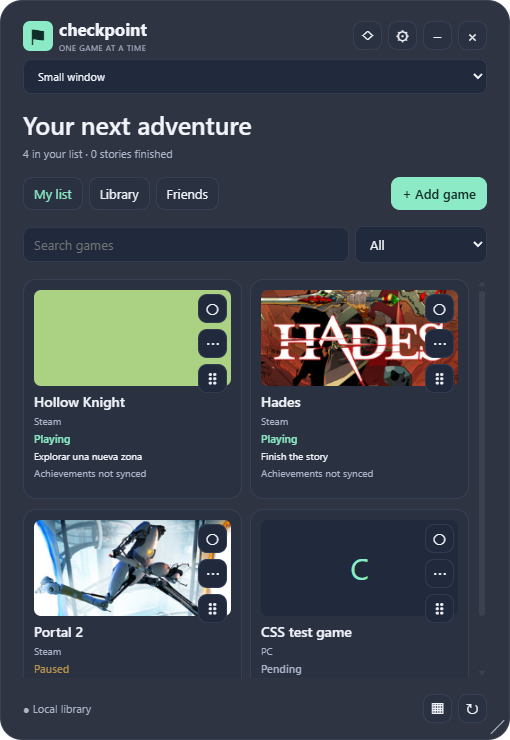
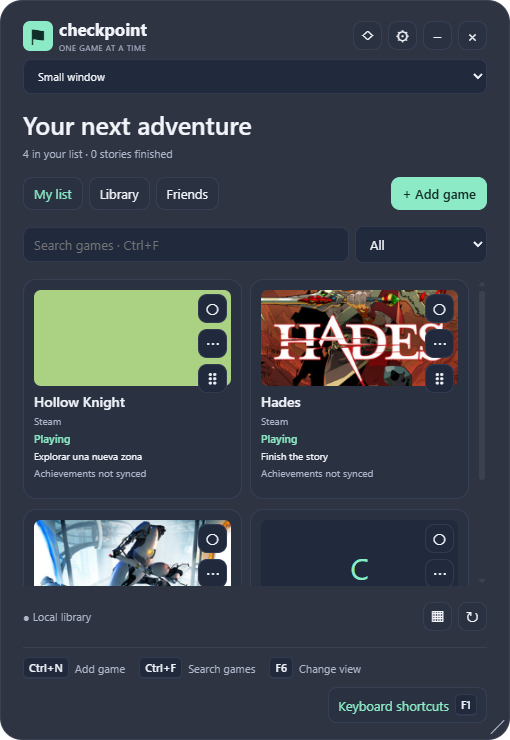
Make keyboard shortcuts visible and add localized F1 help

diff --git a/src/Checkpoint.App/Web/app.js b/src/Checkpoint.App/Web/app.js
@@ -1,7 +1,7 @@
 import { visibleRange, nextIndex } from './ui-model.mjs';
 
 const root = document.querySelector('#app');
-let state, selected, menu, dragId, layout, dialogMode;
+let state, selected, menu, dragId, layout, dialogMode, help, helpFocus, helpLanguage;
 let requestId = 0;
 const pending = new Map();
 const send = value => { const id=++requestId; window.chrome?.webview?.postMessage({...value,requestId:id}); return id; };
@@ -12,13 +12,34 @@ function button(text, name, title, values = {}, className = '') {
   node.setAttribute('aria-label', title || text); node.addEventListener('click', () => action(name, values)); return node;
 }
 function dismissMenu() { const hadMenu=!!menu; menu?.remove(); menu=undefined; if (hadMenu && state?.mini && selected) root.querySelector(`[data-game="${selected}"]`)?.focus({preventScroll:true}); }
+const gestures = {add:'Ctrl+N', search:'Ctrl+F', undo:'Ctrl+Z', view:'F6', hide:'Esc', shortcuts:'F1'};
+function showHelp(event) {
+  if (!state || state.kind !== 'main') return;
+  const invoker=event?.currentTarget; dismissMenu(); helpFocus = invoker?.isConnected ? invoker : document.activeElement;
+  help = el('dialog', 'shortcut-help'); help.setAttribute('aria-labelledby','shortcut-title');
+  help.addEventListener('close', () => {help?.remove(); help=undefined; helpLanguage=undefined; if(helpFocus?.isConnected)helpFocus.focus({preventScroll:true}); else if(state?.mini && selected)root.querySelector(`[data-game="${selected}"]`)?.focus({preventScroll:true});});
+  help.addEventListener('click',e=>{if(e.target===help){const r=help.getBoundingClientRect();if(e.clientX<r.left||e.clientX>r.right||e.clientY<r.top||e.clientY>r.bottom)help.close();}});
+  document.body.append(help); renderHelp(); help.showModal(); help.querySelector('button').focus();
+}
+function renderHelp() {
+  if (!help || helpLanguage === state.language) return;
+  helpLanguage=state.language; const l=state.labels; help.replaceChildren();
+  const header=el('div','shortcut-header'), title=el('h2','',l.shortcuts);title.id='shortcut-title';
+  const close=el('button','',l.closeHelp);close.type='button';close.addEventListener('click',()=>help.close()); header.append(title,close);help.append(header);
+  const content=el('div','shortcut-content');
+  function section(title,rows) {const group=el('section');group.append(el('h3','',title));const list=el('dl');for(const [keys,label,note] of rows){const row=el('div','shortcut-row'),term=el('dt'),description=el('dd','',label);term.append(el('kbd','',keys));if(note)description.append(el('small','',note));row.append(term,description);list.append(row);}group.append(list);content.append(group);}
+  const general=[['F1',l.shortcuts],['Ctrl+N',l.add],['Ctrl+F',l.search],['Ctrl+Z',l.undo,l.undoContext],['F6',l.view],['Esc',l.hide,l.hideContext]];
+  general.push(['Ctrl+Alt+C',l.globalKeys,state.globalHotkey?null:l.globalUnavailable]);
+  section(l.generalKeys,general);section(l.miniKeys,[['↑ / ↓',l.selectGame],[l.homeEnd,l.firstLast],[l.pageKeys,l.pageGame],[l.enterSpace,l.gameMenu],['F2',l.edit]]);section(l.orderKeys,[['Alt+↑ / Alt+↓',l.reorder]]);help.append(content);
+}
+
 function showMenu(game, x, y) {
   dismissMenu(); if (!state || state.kind !== 'main') return;
   menu = el('div', 'menu'); menu.setAttribute('role', 'menu');
   function entry(text, command, values = {}, checked) {
     const item = button((checked == null ? '' : checked ? '✓  ' : '    ') + text, command, text, values);
     item.setAttribute('role', checked == null ? 'menuitem' : 'menuitemradio'); if (checked != null) item.setAttribute('aria-checked', String(checked));
-    item.addEventListener('click', dismissMenu); menu.append(item);
+    const key=gestures[command];if(key){item.append(el('kbd','',key));item.setAttribute('aria-keyshortcuts',key==='Esc'?'Escape':key.replace('Ctrl+','Control+'));} item.addEventListener('click', dismissMenu); menu.append(item);
   }
   if (game) {
     state.labels.statuses.forEach((label, value) => entry(label, 'state', { id: game.id, value }, game.state === value));
@@ -27,6 +48,7 @@ function showMenu(game, x, y) {
   if (state.mini) entry(state.labels.exitMini, 'exit-mini');
   [state.labels.fullWindow,state.labels.smallWindow,state.labels.miniature].forEach((label,value)=>entry(label,'window-mode',{value},value===(state.mini?2:state.full?0:1)));
   entry(state.labels.settings, 'settings'); entry(state.labels.search, 'search'); entry(state.labels.add, 'add');
+  const helpItem=el('button','',state.labels.shortcuts);helpItem.setAttribute('role','menuitem');helpItem.setAttribute('aria-keyshortcuts','F1');helpItem.append(el('kbd','','F1'));helpItem.addEventListener('click',showHelp);menu.append(helpItem);
   menu.append(el('hr')); entry(state.labels.pin, 'pin', {}, state.pinned); entry(state.labels.locked, 'lock', {}, state.locked);
   document.body.append(menu);
   menu.style.left = `${Math.max(4, Math.min(x, innerWidth - menu.offsetWidth - 4))}px`;
@@ -97,11 +119,12 @@ function frame() {
   const viewport = el('section', 'viewport'); viewport.setAttribute('aria-label', 'Checkpoint'); viewport.tabIndex = -1; viewport.addEventListener('scroll', renderGames);
   const footer = el('footer', 'footer'), messages = el('div'); messages.append(el('div', 'connection'), el('div', 'notice')); footer.append(messages);
   const tools = el('div', 'tools'); for (const [icon,name] of [['↶','undo'], ['▤','cycle'], ['↻','sync']]) { const node = button(icon, name, icon, {}, 'icon'); node.dataset.label = name === 'cycle' ? 'view' : name; tools.append(node); } footer.append(tools);
+  const shortcutbar=el('div','shortcutbar'), hints=el('div','shortcut-hints');shortcutbar.append(hints);const helpButton=el('button','shortcut-button');helpButton.type='button';helpButton.setAttribute('aria-keyshortcuts','F1');helpButton.addEventListener('click',showHelp);shortcutbar.append(helpButton);
   const strip = el('div', 'dragstrip'); strip.hidden = true; strip.addEventListener('pointerdown', e => { if (e.button === 0 && !state.locked) action('drag'); });
   const resize = el('div', 'resize'); resize.setAttribute('aria-hidden', 'true'); let point;
   resize.addEventListener('pointerdown', e => { if (state.locked) return; point = [e.screenX,e.screenY]; resize.setPointerCapture(e.pointerId); e.preventDefault(); });
   resize.addEventListener('pointermove', e => { if (!point) return; const x=e.screenX-point[0], y=e.screenY-point[1]; point=[e.screenX,e.screenY]; if (x || y) action('resize',{x,y}); }); resize.addEventListener('pointerup', () => point = undefined); resize.addEventListener('lostpointercapture', () => point = undefined);
-  windowNode.append(header,intro,navigation,searchbar,viewport,footer,strip,resize); root.append(windowNode);
+  windowNode.append(header,intro,navigation,searchbar,viewport,footer,shortcutbar,strip,resize); root.append(windowNode);
   windowNode.addEventListener('contextmenu', e => { if (state.mini && !e.target.closest('[data-game]')) { e.preventDefault(); showMenu(null,e.clientX,e.clientY); } });
 }
 function renderMain() {
@@ -112,10 +135,11 @@ function renderMain() {
   host.querySelector('.tagline').textContent = state.labels.tagline;
   host.querySelector('h1').textContent = state.tab === 'friends' ? state.labels.friendsTitle : state.labels.title;
   host.querySelector('.summary').textContent = state.summary;
-  host.querySelectorAll('[data-label]').forEach(node => { const label = state.labels[node.dataset.label]; node.title = label; node.setAttribute('aria-label', label); if (node.classList.contains('add')) node.textContent = '+ '+label; });
+  host.querySelectorAll('[data-label]').forEach(node => { const label = state.labels[node.dataset.label]; const key=gestures[node.dataset.label]; node.title = label+(key?' · '+key:''); node.setAttribute('aria-label', label);if(key)node.setAttribute('aria-keyshortcuts',key==='Esc'?'Escape':key.replace('Ctrl+','Control+')); if (node.classList.contains('add')) node.textContent = '+ '+label; });
   host.querySelectorAll('[data-tab]').forEach(node => { node.textContent = state.labels[node.dataset.tab]; node.classList.toggle('active', state.tab === node.dataset.tab); });
-  const search = host.querySelector('#search'); if ((pending.get('search')||0) <= (state.ack||0) && search.value !== state.search) search.value = state.search; search.placeholder = state.labels.search; search.setAttribute('aria-label',state.labels.search);
+  const search = host.querySelector('#search'); if ((pending.get('search')||0) <= (state.ack||0) && search.value !== state.search) search.value = state.search; search.placeholder = state.labels.search+' · Ctrl+F'; search.setAttribute('aria-keyshortcuts','Control+F'); search.setAttribute('aria-label',state.labels.search);
   const filter = host.querySelector('.searchbar select'); filter.replaceChildren(); [state.labels.all,...state.labels.statuses].forEach((text,index) => { const option=el('option','',text); option.value=index; filter.append(option); }); filter.value = state.filter;
+  const hints=host.querySelector('.shortcut-hints');hints.replaceChildren();for(const [keys,label] of [['Ctrl+N',state.labels.add],['Ctrl+F',state.labels.search],['F6',state.labels.view]]){const hint=el('span');hint.append(el('kbd','',keys),el('span','',label));hints.append(hint);}const helpButton=host.querySelector('.shortcut-button');helpButton.replaceChildren(el('span','',state.labels.shortcuts),el('kbd','','F1'));helpButton.title=state.labels.helpHint;renderHelp();
   host.querySelector('.connection').textContent = state.connection; host.querySelector('.notice').textContent = state.notice;
   host.querySelector('[data-label="undo"]').hidden = !state.undo; host.querySelector('[data-label="sync"]').disabled = state.busy;
   host.querySelector('.resize').hidden = state.locked || state.full; host.querySelector('.dragstrip').hidden = !state.mini; host.querySelector('[data-label="pin"]').textContent = state.pinned ? '◆' : '◇';
@@ -136,7 +160,7 @@ function renderGames() {
   const range=visibleRange(state.games.length,viewport.scrollTop,viewport.clientHeight,rowHeight,columns), rows=el('div','rows'); rows.style.height=`${range.height}px`;
   for (let index=range.start; index<Math.min(range.end,state.games.length); index++) {
     const game=state.games[index], row=el('article',state.mini ? 'minirow' : `game${state.grid ? ' grid' : state.compact ? ' compact' : ''}`);
-    row.dataset.game=game.id; row.tabIndex=selected===game.id ? 0 : -1; row.classList.toggle('selected',selected===game.id); row.style.top=`${Math.floor(index/columns)*rowHeight}px`;
+    row.dataset.game=game.id;if(state.mini){row.title=state.labels.edit+' · F2';row.setAttribute('aria-keyshortcuts','F2 Enter Space ArrowUp ArrowDown Home End PageUp PageDown');} row.tabIndex=selected===game.id ? 0 : -1; row.classList.toggle('selected',selected===game.id); row.style.top=`${Math.floor(index/columns)*rowHeight}px`;
     if (!state.mini) { row.style.left=`${(index%columns)*100/columns}%`; row.style.width=`calc(${100/columns}% - ${columns>1 ? 8 : 0}px)`; row.style.height=`${rowHeight-10}px`; }
     else row.style.height=`${rowHeight-3}px`;
     row.addEventListener('focus',()=>selected=game.id); row.addEventListener('contextmenu',e=>{ e.preventDefault(); selected=game.id; showMenu(game,e.clientX,e.clientY); });
@@ -146,7 +170,7 @@ function renderGames() {
       const details=el('div','details'); details.append(el('div','game-title ellipsis',game.title),el('div','platform ellipsis',game.platform),el('div',`status state-${game.state}`,game.status),el('div','next ellipsis',game.next),el('div','progress ellipsis',game.progress+(game.percent==null?'':` · ${game.percent}%`)));
       if (game.percent != null) { const progress=el('progress'); progress.max=100; progress.value=game.percent; progress.setAttribute('aria-label',game.progress); details.append(progress); } row.append(details);
       const tools=el('div','game-tools'); tools.append(button(game.state===3?'✓':'○','finish',state.labels.finish,{id:game.id},'icon'),button('⋯','edit',state.labels.edit,{id:game.id},'icon'));
-      const reorder=el('button','icon','⠿'); reorder.title=game.title; reorder.setAttribute('aria-label',game.title); reorder.draggable=true; reorder.addEventListener('keydown',e=>{if(e.altKey && ['ArrowUp','ArrowDown'].includes(e.key)){e.preventDefault();const index=state.games.findIndex(item=>item.id===game.id),target=state.games[index+(e.key==='ArrowUp'?-1:1)];if(target)action('move',{id:game.id,target:target.id,after:e.key==='ArrowDown'});}}); reorder.addEventListener('dragstart',e=>{dragId=game.id;e.dataTransfer.setData('text/plain',game.id);}); tools.append(reorder); row.append(tools);
+      const reorder=el('button','icon','⠿'); reorder.title=state.labels.reorder+' · Alt+↑ / Alt+↓';reorder.setAttribute('aria-keyshortcuts','Alt+ArrowUp Alt+ArrowDown'); reorder.setAttribute('aria-label',game.title); reorder.draggable=true; reorder.addEventListener('keydown',e=>{if(e.altKey && ['ArrowUp','ArrowDown'].includes(e.key)){e.preventDefault();const index=state.games.findIndex(item=>item.id===game.id),target=state.games[index+(e.key==='ArrowUp'?-1:1)];if(target)action('move',{id:game.id,target:target.id,after:e.key==='ArrowDown'});}}); reorder.addEventListener('dragstart',e=>{dragId=game.id;e.dataTransfer.setData('text/plain',game.id);}); tools.append(reorder); row.append(tools);
       row.addEventListener('dragover',e=>e.preventDefault()); row.addEventListener('drop',e=>{e.preventDefault();if(dragId)action('move',{id:dragId,target:game.id,after:e.clientY>row.getBoundingClientRect().top+row.clientHeight/2});dragId=undefined;});
     }
     rows.append(row);
@@ -155,6 +179,9 @@ function renderGames() {
   if (focusWasRow && selected) rows.querySelector(`[data-game="${selected}"]`)?.focus({preventScroll:true});
 }
 document.addEventListener('keydown',e=>{
+  if(e.key==='F1' && e.repeat){e.preventDefault();return;}
+  if(help?.open){if(e.key==='Escape'||e.key==='F1'){e.preventDefault();help.close();}return;}
+  if(e.key==='F1' && state?.kind==='main' && !dialogMode){e.preventDefault();showHelp();return;}
   if (dialogMode) { if (e.key==='Escape') { e.preventDefault(); send({action:'cancel-dialog'}); } return; }
   if (!state) return;
   const input=e.target.closest?.('input,textarea,select');

diff --git a/src/Checkpoint.App/Web/app.css b/src/Checkpoint.App/Web/app.css
@@ -26,3 +26,17 @@ input[type="checkbox"] { accent-color:var(--accent); width:16px; min-height:16px
 @media (max-width:400px) { .window:not(.mini) { padding:17px 18px 16px; } .navigation { gap:4px; } .navigation button { padding:7px 8px; } .searchbar select { width:115px; } }
 
 .window-mode { width:135px; min-width:0; font-size:11px; } .window.full { border-radius:0; padding:24px 32px; } .window.full .brand { cursor:default; } @media(max-width:540px) { .header { flex-wrap:wrap; } .window-mode { width:100%; order:2; } }
+
+kbd { font-family:inherit; font-size:11px; font-weight:600; white-space:nowrap; border:1px solid var(--line); border-bottom-width:2px; border-radius:5px; padding:2px 5px; background:var(--input); color:var(--text); }
+.shortcutbar { display:flex; align-items:center; justify-content:space-between; gap:8px; flex-wrap:wrap; border-top:1px solid var(--line); padding-top:9px; flex:none; }
+.shortcut-hints { display:flex; gap:8px 14px; flex-wrap:wrap; font-size:11px; color:var(--muted); }
+.shortcut-hints>span,.shortcut-button { display:flex; align-items:center; gap:6px; } .shortcut-button { color:var(--accent); padding:6px 9px; margin-left:auto; }
+.mini .shortcutbar { display:none; }
+.shortcut-help { color:var(--text); background:var(--input); border:1px solid var(--line); border-radius:14px; padding:0; width:min(580px,calc(100vw - 16px)); max-height:calc(100vh - 16px); overflow:auto; }
+.shortcut-help::backdrop { background:#0008; }
+.shortcut-header { display:flex; align-items:center; justify-content:space-between; gap:10px; padding:14px; position:sticky; top:0; background:var(--input); border-bottom:1px solid var(--line); }
+.shortcut-header h2 { font-size:18px; margin:0; } .shortcut-header button { flex-shrink:0; }
+.shortcut-content { padding:0 14px 14px; } .shortcut-content h3 { font-size:13px; color:var(--accent); margin:18px 0 8px; } .shortcut-content dl { margin:0; }
+.shortcut-row { display:grid; grid-template-columns:minmax(95px,auto) 1fr; gap:14px; padding:9px 0; border-bottom:1px solid var(--line); align-items:start; }
+.shortcut-row dt { padding-top:2px; } .shortcut-row dd { margin:0; font-size:13px; overflow-wrap:anywhere; } .shortcut-row small { display:block; color:var(--muted); margin-top:4px; font-size:11px; }
+@media(max-width:400px) { .shortcut-hints { gap:6px 10px; } .shortcut-header { flex-wrap:wrap; padding:10px; } .shortcut-row { grid-template-columns:1fr; gap:7px; } }

diff --git a/src/Checkpoint.App/WebSmokeTests.cs b/src/Checkpoint.App/WebSmokeTests.cs
@@ -40,6 +40,15 @@ public partial class MainWindow
             Check(web!.Browser.DefaultBackgroundColor.A == 0 && AllowsTransparency,"composition web control retains transparent window support");
             Check(!web.Browser.CoreWebView2.Settings.AreHostObjectsAllowed && !web.Browser.CoreWebView2.Settings.AreDefaultContextMenusEnabled,"web host disables native object access and browser context menus");
             Check(await Script(web,"document.documentElement.lang === 'es' && document.querySelector('[data-tab=list]').textContent === 'Mi lista'"),"CSS main navigation uses Spanish");
+            Check(await Script(web,"document.querySelector('.shortcutbar').textContent.includes('Ctrl+N') && document.querySelector('.shortcutbar').textContent.includes('F6') && document.querySelector('[data-label=add]').getAttribute('aria-keyshortcuts')==='Control+N'"),"useful shortcuts are visible and controls expose accessible key gestures");
+            await Run("document.querySelector('.shortcut-button').click();");
+            Check(await Script(web,"document.querySelector('.shortcut-help:modal h2').textContent==='Atajos de teclado' && document.querySelector('.shortcut-help').textContent.includes('Intro / Espacio') && document.querySelector('.shortcut-help').textContent.includes('Ctrl+Alt+C')"),"shortcut button opens a localized Spanish guide with global and Miniature keys");
+            var helpGameCount=Games.Count;
+            await Run("document.querySelector('.shortcut-help').dispatchEvent(new KeyboardEvent('keydown',{key:'n',ctrlKey:true,bubbles:true}));");
+            Check(Games.Count==helpGameCount && Application.Current.Windows.Count==1 && await Script(web,"!!document.querySelector('.shortcut-help:modal') && document.querySelector('.shortcut-help').contains(document.activeElement)"),"shortcut guide is modal and prevents underlying game commands");
+            await Capture(web,"css-shortcuts-es.png");
+            await Run("document.dispatchEvent(new KeyboardEvent('keydown',{key:'Escape',bubbles:true}));");
+            Check(IsVisible && await Script(web,"!document.querySelector('.shortcut-help') && document.activeElement.matches('.shortcut-button')"),"Escape closes shortcut help and restores focus without hiding the widget");
             var coverGame=Games.First();
             var fixture=System.Windows.Media.Imaging.BitmapSource.Create(1,1,96,96,System.Windows.Media.PixelFormats.Bgra32,null,new byte[] {130,210,170,255},4);
             coverGame.CustomCover=Covers.SavePrepared(WebSurface.ImageBytes(fixture)); Persist(); Refresh();
@@ -67,6 +76,10 @@ public partial class MainWindow
             await settings.Browser.CoreWebView2.ExecuteScriptAsync("[...document.querySelectorAll('button')].find(b=>b.textContent==='Guardar').click();");
             await Wait(()=>Script(web,"document.documentElement.lang==='en'"));
             Check(Preferences.Language=="en" && Store.LoadSettings().Language=="en" && await Script(web,"document.querySelector('[data-tab=library]').textContent==='Library'"),"CSS settings save language and update the main interface immediately");
+            await Run("document.dispatchEvent(new KeyboardEvent('keydown',{key:'F1',bubbles:true}));");
+            Check(await Script(web,"document.querySelector('.shortcut-help:modal h2').textContent==='Keyboard shortcuts' && document.querySelector('.shortcut-help').textContent.includes('Enter / Space') && !document.querySelector('.shortcut-help').textContent.includes('Atajos')"),"F1 opens shortcut help entirely in the selected English language");
+            await Capture(web,"css-shortcuts-en.png");
+            await Run("document.dispatchEvent(new KeyboardEvent('keydown',{key:'Escape',bubbles:true}));");
             await Capture(web,"css-widget-en.png");
             await Run("document.querySelector('[data-tab=friends]').click();");
             await Wait(()=>Script(web,"!!document.querySelector('input[aria-label=\"Checkpoint username\"]')"));
@@ -145,6 +158,11 @@ public partial class MainWindow
             Check(!IsFullWindow && Math.Abs(Width-smallWidth)<2 && Math.Abs(Height-smallHeight)<2 && await Script(web,"window.checkpointState.opacity===0.61 && document.querySelector('.window-mode').value==='1'"),"small window restores saved dimensions and translucency");
             await Run("const mode=document.querySelector('.window-mode');mode.value=2;mode.dispatchEvent(new Event('change',{bubbles:true}));");
             await Run("document.dispatchEvent(new KeyboardEvent('keydown',{key:'Home',bubbles:true}));document.dispatchEvent(new KeyboardEvent('keydown',{key:'Enter',bubbles:true}));");
+            await Run("[...document.querySelectorAll('.menu button')].find(button=>button.getAttribute('aria-keyshortcuts')==='F1').click();");
+            Check(await Script(web,"!!document.querySelector('.shortcut-help:modal') && !document.querySelector('.menu') && getComputedStyle(document.querySelector('.shortcutbar')).display==='none'"),"Miniature context menu opens the guide without adding controls to its list");
+            await Run("document.dispatchEvent(new KeyboardEvent('keydown',{key:'Escape',bubbles:true}));");
+            Check(Preferences.MiniatureView && await Script(web,"!document.querySelector('.shortcut-help') && document.activeElement.matches('.minirow')"),"closing Miniature help restores the selected row focus");
+            await Run("document.dispatchEvent(new KeyboardEvent('keydown',{key:'Enter',bubbles:true}));");
             Check(Preferences.MiniatureView && await Script(web,"[...document.querySelectorAll('.menu button')].some(button=>button.textContent.includes('Full window')) && window.checkpointState.opacity===0.61"),"Miniature keeps translucency and offers all three window modes");
             await Run("[...document.querySelectorAll('.menu button')].find(button=>button.textContent.includes('Full window')).click();");
             Check(IsFullWindow && !Preferences.MiniatureView && Store.LoadSettings().FullWindow,"Miniature context menu restores the opaque full window");

diff --git a/src/Checkpoint.App/WebInterface.cs b/src/Checkpoint.App/WebInterface.cs
@@ -25,7 +25,7 @@ public partial class MainWindow
         kind="main", language=I18n.Language, light=Preferences.LightTheme,
         opacity=EffectiveOpacity, full=IsFullWindow, mini=Preferences.MiniatureView, compact=Preferences.Compact,
         grid=Preferences.GridView, textSize=Preferences.MiniatureTextSize, locked=Preferences.PositionLocked,
-        pinned=Preferences.AlwaysOnTop, lightweight=Preferences.LightweightMode, busy=syncing,
+        pinned=Preferences.AlwaysOnTop, globalHotkey=hotkeyRegistered, lightweight=Preferences.LightweightMode, busy=syncing,
         tab=friendsVisible ? "friends" : allLibrary ? "library" : "list", search=Search.Text, filter=StatusFilter.SelectedIndex,
         summary=Summary.Text, notice=NoticeText.Text, connection=ConnectionText.Text,
         emptyTitle=EmptyTitle.Text, emptyText=EmptyText.Text, examples=Games.Count == 0, undo=DeletedGames.Count > 0,
@@ -37,6 +37,13 @@ public partial class MainWindow
             locked=I18n.T("Bloquear posición y tamaño"), view=I18n.T("Cambiar vista"), undo=I18n.T("Recuperar último juego eliminado"),
             examples=I18n.T("Añadir ejemplos"), finish=I18n.T("Marcar o desmarcar historia terminada"),
             windowMode=I18n.T("Modo de ventana"), fullWindow=I18n.T("Ventana completa"), smallWindow=I18n.T("Ventana pequeña"), miniature=I18n.T("Miniatura"),
+            shortcuts=I18n.T("Atajos de teclado"), generalKeys=I18n.T("En la ventana principal"), miniKeys=I18n.T("En miniatura"), orderKeys=I18n.T("Al enfocar el botón de reordenar"),
+            helpHint=I18n.T("Pulsa F1 para ver todos los atajos."), closeHelp=I18n.T("Cerrar ayuda"),
+            selectGame=I18n.T("Seleccionar juego"), firstLast=I18n.T("Primer o último juego"), pageGame=I18n.T("Avanzar o retroceder una página"),
+            gameMenu=I18n.T("Abrir menú del juego"), reorder=I18n.T("Reordenar juego"),
+            undoContext=I18n.T("Fuera de los campos de texto"), hideContext=I18n.T("Sin menús ni ayuda abiertos"),
+            globalKeys=I18n.T("Mostrar / ocultar desde cualquier aplicación"), globalUnavailable=I18n.T("No disponible: otra aplicación puede estar usando este atajo."),
+            homeEnd=I18n.T("Inicio / Fin"), pageKeys=I18n.T("RePág / AvPág"), enterSpace=I18n.T("Intro / Espacio"),
             all=I18n.T("Todos"), statuses=Enum.GetValues<GameStatus>().Select(Labels.Status).ToArray() },
         games=(friendsVisible ? Enumerable.Empty<CardView>() : visibleCards).Select(card => new { id=card.Model.Id, title=card.Model.Title, platform=card.Model.Platform,
             state=(int)card.Model.Status, status=card.Model.StatusText, next=card.Model.NextTask,

diff --git a/README.md b/README.md
@@ -18,13 +18,13 @@ Current captures come from the actual local HTML/CSS interface in WebView2, usin
 
 ## Download and run
 
-Current version: **0.7.2**. Build outputs in `dist`:
+Current version: **0.7.3**. Build outputs in `dist`:
 
-- `Checkpoint-0.7.2-win-x64.zip`: portable edition. Extract the ZIP and open `Checkpoint/Checkpoint.exe`. All files stay inside the `Checkpoint` folder.
-- `Checkpoint-0.7.2-win-x64.msi`: per-user installer with Start menu shortcut and Windows uninstall support.
+- `Checkpoint-0.7.3-win-x64.zip`: portable edition. Extract the ZIP and open `Checkpoint/Checkpoint.exe`. All files stay inside the `Checkpoint` folder.
+- `Checkpoint-0.7.3-win-x64.msi`: per-user installer with Start menu shortcut and Windows uninstall support.
 - `.sha256` files: integrity checksums.
 
-Download the portable ZIP or MSI from [GitHub Releases](https://github.com/Nicolasmf05/Checkpoint/releases/tag/v0.7.2), or build from source below. The **Build and verify** GitHub Actions workflow also produces artifacts after a successful run. Packages include the .NET runtime; end users need no development tools. Windows 11 x64 is the target. Windows 10 and ARM64 hardware have not been validated; ARM64 packaging is supported. The MSI and EXE are unsigned; Windows may warn or block them. See [Windows security messages](docs/en/WINDOWS-SECURITY.md). No private certificates are included.
+Download the portable ZIP or MSI from [GitHub Releases](https://github.com/Nicolasmf05/Checkpoint/releases/tag/v0.7.3), or build from source below. The **Build and verify** GitHub Actions workflow also produces artifacts after a successful run. Packages include the .NET runtime; end users need no development tools. Windows 11 x64 is the target. Windows 10 and ARM64 hardware have not been validated; ARM64 packaging is supported. The MSI and EXE are unsigned; Windows may warn or block them. See [Windows security messages](docs/en/WINDOWS-SECURITY.md). No private certificates are included.
 
 
 Microsoft Store packaging is being prepared separately: [MSIX build and submission guide](docs/en/MICROSOFT-STORE.md). The unsigned MSIX preview is for developer validation and does not remove warnings from the current GitHub downloads.
@@ -85,6 +85,8 @@ Consent and pending changes persist per account. Offline changes retry when conn
 Public Supabase configuration is included. Friends use Checkpoint accounts independently of Steam. See [setup](docs/en/SUPABASE.md), [friends scope](docs/en/FRIENDS-PLAN.md) and [privacy](docs/en/PRIVACY.md).
 
 ## Controls and data
+
+**Keyboard shortcuts are visible at the bottom of the window.** Click **Keyboard shortcuts · F1** or press **F1** for the complete localized guide. In Miniature, use F1 or the right-click menu; the list remains names and states only. Escape closes help and returns focus.
 
 `Ctrl+Alt+C` show/hide; `Ctrl+N` add; `Ctrl+F` search; `F6` cycle views; `Ctrl+Z` restore last deletion when not editing text; `Escape` hide. Use the tray if the global shortcut is occupied.
 

diff --git a/README.es.md b/README.es.md
@@ -18,12 +18,12 @@ Capturas de la interfaz HTML/CSS real en WebView2 con datos de prueba aislados. 
 
 ## Descargar y utilizar
 
-La versión actual es **0.7.2**. En la carpeta `dist` se generan:
+La versión actual es **0.7.3**. En la carpeta `dist` se generan:
 
-Descarga el portable o instalador desde [GitHub Releases](https://github.com/Nicolasmf05/Checkpoint/releases/tag/v0.7.2), o compila con las instrucciones de este repositorio. El workflow **Build and verify** también genera el ZIP y MSI como artefactos cuando finaliza correctamente.
+Descarga el portable o instalador desde [GitHub Releases](https://github.com/Nicolasmf05/Checkpoint/releases/tag/v0.7.3), o compila con las instrucciones de este repositorio. El workflow **Build and verify** también genera el ZIP y MSI como artefactos cuando finaliza correctamente.
 
-- `Checkpoint-0.7.2-win-x64.msi`: instalador por usuario con acceso en el menú Inicio y desinstalación desde Windows.
-- `Checkpoint-0.7.2-win-x64.zip`: edición portable. Extrae el ZIP y abre `Checkpoint/Checkpoint.exe`. Todos los archivos quedan dentro de la carpeta `Checkpoint`.
+- `Checkpoint-0.7.3-win-x64.msi`: instalador por usuario con acceso en el menú Inicio y desinstalación desde Windows.
+- `Checkpoint-0.7.3-win-x64.zip`: edición portable. Extrae el ZIP y abre `Checkpoint/Checkpoint.exe`. Todos los archivos quedan dentro de la carpeta `Checkpoint`.
 - Archivos `.sha256`: comprobación de integridad.
 
 Los paquetes incluyen el runtime de .NET; el usuario no necesita instalar herramientas de desarrollo. La versión x64 está dirigida a Windows 11; Windows 10 no ha sido validado. La compilación ARM64 está preparada en el script, pero no se ha probado en hardware ARM.
@@ -79,6 +79,8 @@ Usa el selector de la cabecera o Ajustes → Modo de ventana: **Ventana completa
 - Porcentaje manual de historia, publicación explícita de juegos y reintentos de publicación al recuperar la conexión.
 
 **Historia terminada y todos los logros son independientes.** La sincronización nunca decide que has terminado una historia y conserva los datos previos si Steam falla.
+
+**Los atajos están visibles al pie de la ventana.** Pulsa **Atajos de teclado · F1** o **F1** para consultar la guía completa en el idioma elegido. En Miniatura usa F1 o el menú con clic derecho; la lista conserva solo nombres y estados. Esc cierra la ayuda y devuelve el foco.
 
 Atajos: `Ctrl+Alt+C` muestra u oculta; `Ctrl+N` añade un juego; `Ctrl+F` busca; `F6` alterna lista, compacta, cuadrícula y Miniatura; `Ctrl+Z` recupera el último juego eliminado cuando no estás editando texto; `Escape` oculta. Si otro programa ocupa `Ctrl+Alt+C`, puedes abrir Checkpoint desde la bandeja.
 

diff --git a/docs/VALIDATION.md b/docs/VALIDATION.md
@@ -2,6 +2,10 @@
 
 # Validación
 
+## 0.7.3 — atajos visibles
+
+389 comprobaciones superadas: 130 de biblioteca, 18 del servicio Node, 18 Edge, 175 de controladores nativos, 4 del modelo de interfaz y 44 CSS reales. Siete nuevas verifican la franja visible y teclas accesibles, ayuda en español e inglés, bloqueo de comandos de fondo, cierre con Esc sin ocultar la ventana, acceso desde el menú de Miniatura y recuperación del foco de su juego. Las capturas se obtienen del ZIP extraído con datos aislados. La tecla global ocupada se explica; las pruebas no cierran otra instancia del usuario. Sigue pendiente comprobar teclado físico y lectores de pantalla.
+
 ## 0.7.2 — sincronización automática
 
 382 comprobaciones superadas: 130 de biblioteca, 18 del servicio Node, 18 Edge, 175 de controladores nativos, 4 del modelo de interfaz y 37 CSS reales. El arranque y el temporizador usan ahora la misma sincronización de biblioteca y logros que el botón Actualizar. Las pruebas existentes comprueban conservación de estados manuales, importación sin duplicados, errores de Steam e interfaz traducida. No se ha probado el arranque con una cuenta Steam real; las pruebas del servicio usan respuestas simuladas.

diff --git a/docs/en/VALIDATION.md b/docs/en/VALIDATION.md
@@ -1,5 +1,9 @@
 # Validation
 
+## 0.7.3 — visible keyboard shortcuts
+
+389 checks passed: 130 core, 18 Node service, 18 Edge, 175 native controller, 4 interface model and 44 actual CSS checks. Seven new checks cover visible and accessible gestures, Spanish/English help, blocking underlying commands, Escape without hiding the window, Miniature context-menu help and restoration of its selected row focus. Captures come from the extracted ZIP with isolated data. Occupied global gestures are explained; tests do not close another user instance. Physical keyboard and screen-reader validation remain pending.
+
 ## 0.7.2 — automatic synchronization
 
 382 checks passed: 130 core, 18 Node service, 18 Edge, 175 native controller, 4 interface model and 37 actual CSS checks. Startup and the timer now use the same library and achievements sync as Refresh. Existing tests cover preservation of manual states, deduplicated imports, Steam errors and localized interfaces. Startup with a real Steam account remains unverified; service tests use simulated responses.

diff --git a/docs/en/SCREENSHOTS.md b/docs/en/SCREENSHOTS.md
@@ -4,6 +4,12 @@
 
 Current captures use actual WebView2 HTML/CSS through `CapturePreviewAsync` in isolated package tests. Older WPF captures below are archived examples. Games/users/progress are fixtures, HTTP replies are simulated, and private cover artwork uses a solid-color image. This is not real-account signup evidence.
 
+## 0.7.3 — visible keyboard shortcuts
+
+The bottom strip shows useful key gestures; F1 opens the complete guide. Miniature offers F1 and a context-menu entry.
+
+![English keyboard shortcuts guide](../screenshots/css-shortcuts-en.png)
+
 ## 0.7.1 — full window
 
 ![Full window, 100% opacity](../screenshots/css-full-window-en.png)

diff --git a/CHANGELOG.es.md b/CHANGELOG.es.md
@@ -2,6 +2,12 @@
 
 # Historial de cambios
 
+## 0.7.3 — 2026-10-03
+
+- Franja visible de atajos, teclas destacadas en menús, indicaciones y accesibilidad.
+- Guía de atajos desde F1 o su botón, traducida por completo; Miniatura ofrece F1 y acceso desde el menú sin añadir controles a la lista.
+- La ayuda conserva el foco y se cierra con Esc; se indica si el atajo global está ocupado. Siete pruebas CSS reales nuevas.
+
 ## 0.7.2 — 2026-10-03
 
 - Sincronización automática de la biblioteca de Steam, horas jugadas y logros de los juegos seguidos al abrir y en el intervalo configurado (30 minutos por defecto).

diff --git a/CHANGELOG.md b/CHANGELOG.md
@@ -2,6 +2,12 @@
 
 **English** · [Español](CHANGELOG.es.md)
 
+## 0.7.3 — 2026-10-03
+
+- Visible shortcut strip, keyboard badges in menus, tooltips and accessible key gestures.
+- Keyboard shortcuts guide via F1 or its button, fully localized; Miniature offers F1 and a context-menu entry without adding list controls.
+- Modal help preserves focus and closes with Escape; an occupied global shortcut is explained. Seven new actual CSS checks.
+
 ## 0.7.2 — 2026-10-03
 
 - Automatically sync the Steam library, playtime and tracked achievements on each launch and at the configured interval (30 minutes by default).

diff --git a/docs/SCREENSHOTS.md b/docs/SCREENSHOTS.md
@@ -4,6 +4,12 @@
 
 Las capturas actuales proceden de WebView2 real. Juegos y progresos son ejemplos; no representan un registro con cuentas reales.
 
+## 0.7.3 — atajos visibles
+
+La franja inferior muestra las teclas más útiles; F1 abre la guía completa. En Miniatura se accede desde F1 o el menú con clic derecho.
+
+![Guía de atajos en español](screenshots/css-shortcuts-es.png)
+
 ## 0.7.1 — ventana completa
 
 La captura inglesa muestra la ventana completa con opacidad al 100 %: [ver captura](screenshots/css-full-window-en.png). El selector también está traducido a español en las capturas siguientes.
